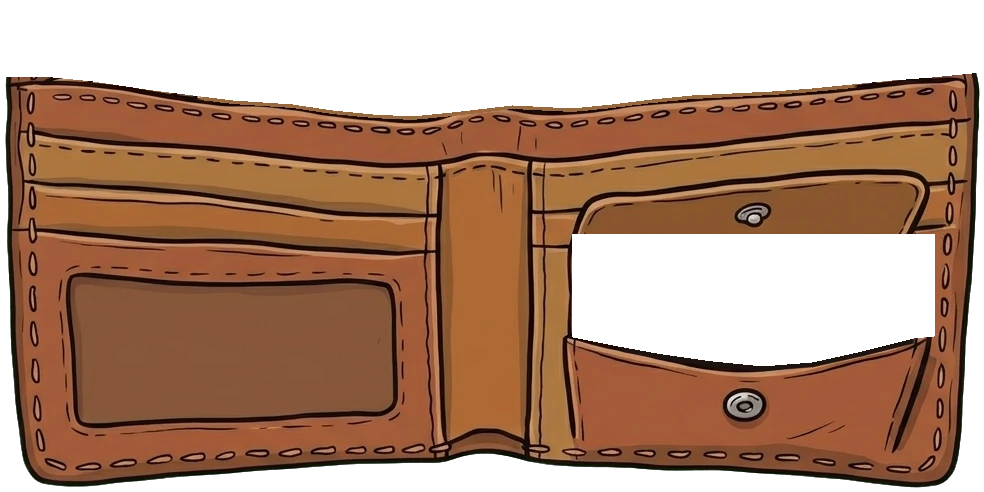
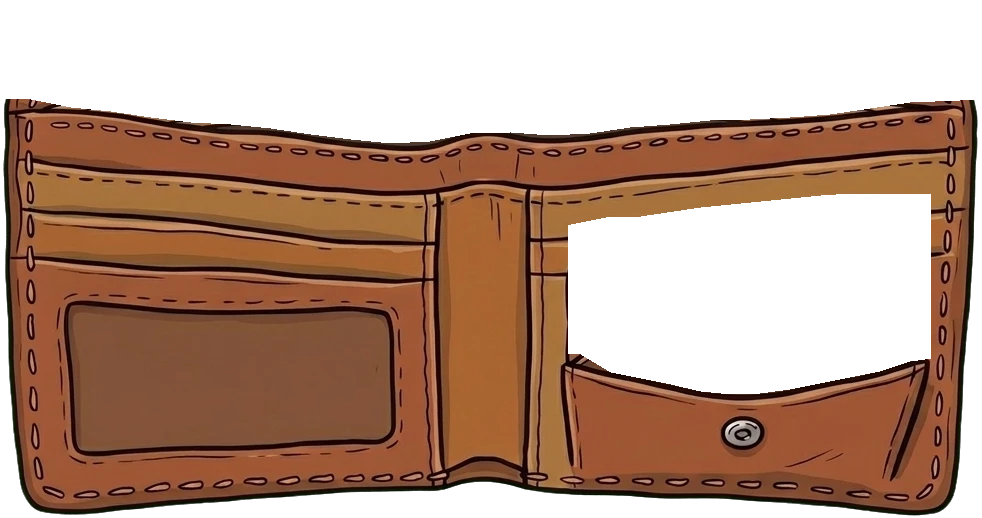
Étal : portefeuille vide du parent, pièces devant le rabat ; fiche du lot « L'étal du pêcheur »
- Le portefeuille ouvert est l'illustration du parent sans billet ni pièce
  (plus de cuir reconstitué) ; les pièces qui sortent montent devant le rabat.
- docs/LOTS.md, fiche 7 : le lot qui intègre l'étal comme module 6
  (déroulement, 10 niveaux, crans, erreurs M1 à M7, leçons L15 à L18, orage,
  voix à fabriquer plus tard, recette).

Claude-Session: https://claude.ai/code/session_01NNpj2QYWwySQuqJk6WwPyV

diff --git a/art/etal/index.html b/art/etal/index.html
@@ -720,15 +720,15 @@ const IMG_V = { 10: 'piece-10c', 20: 'piece-20c', 50: 'piece-50c', 100: 'piece-1
 // tailles réelles : billets 120 à 140 mm de large ; pièces 19,75 à 25,75 mm de diamètre (rapports respectés)
 const LARG = { 500: 190, 1000: 201, 2000: 211, 5000: 222, 10: 67, 20: 76, 50: 82, 100: 79, 200: 88 };
 const PF_FERME = { l: 964, t: 586, s: 0.42 }, PF_OUVERT = { l: 659, t: 458, s: 0.915 };
-/* le portefeuille ouvert : l'illustration du parent (outils/8-portefeuille-ouvert.py), en deux calques — le fond
-   (portefeuille vidé) et le cuir de devant ; billets et pièces rangés passent entre les deux. Coordonnées en pixels
-   de l'illustration (1 200 × 896), cadre découpé à partir de (108, 212). */
-const PF_IMG = { x0: 108, y0: 212, w: 984, h: 492 };
-const PF_NEUF = { l: 657, t: 462, s: 0.598 };
+/* le portefeuille ouvert : l'illustration du parent du portefeuille vide (outils/8-portefeuille-ouvert.py), en deux
+   calques — le portefeuille, et le cuir de devant ; billets et pièces rangés passent entre les deux. Coordonnées en
+   pixels de l'illustration (1 200 × 896), cadre découpé à partir de (110, 184). */
+const PF_IMG = { x0: 110, y0: 184, w: 982, h: 518 };
+const PF_NEUF = { l: 657, t: 460, s: 0.598 };
 const enScene = (x, y) => [PF_NEUF.l + PF_NEUF.s * (x - PF_IMG.x0), PF_NEUF.t + PF_NEUF.s * (y - PF_IMG.y0)];
 const BORD_AVANT = [[110, 290], [200, 294], [300, 308], [400, 317], [480, 327], [520, 329], [620, 318], [720, 317], [800, 308], [880, 304], [960, 297], [1040, 290], [1090, 285]];
 const interp = (P, x) => { for (let i = 1; i < P.length; i++) if (x <= P[i][0]) { const [a, b] = [P[i - 1], P[i]]; return a[1] + (b[1] - a[1]) * (x - a[0]) / (b[0] - a[0]); } return P[P.length - 1][1]; };
-const BORD_POCHE_P = [[676, 548], [720, 557], [770, 566], [820, 573], [870, 578], [920, 574], [970, 563], [1022, 550]];
+const BORD_POCHE_P = [[676, 538], [690, 538], [720, 556], [750, 562], [780, 568], [810, 575], [840, 578], [870, 577], [900, 573], [930, 567], [960, 561], [990, 555], [1020, 545], [1042, 542]];
 const SOUC = { x: 468, y: 690, rx: 185, ry: 95 };
 let pfEtat = 'ferme', items = [], ordreS = 0;    // ferme · anim · ouvert (argent rangé) · sorti (argent dehors)
 const pfEl = $('pf'), pfCtx = pfEl.getContext('2d'), fondEl = $('pfFond'), avEl = $('pfAvant');
@@ -764,7 +764,7 @@ const tries = (lieu, b) => items.filter(i => i.lieu === lieu && i.b === b).sort(
 function posRangee(it, k, n) {
   if (it.b) {                            // dans la grande poche : le haut dépasse, comme dans l'illustration
     const sc = 1, xi = 645 + (k - (n - 1) / 2) * Math.min(90, 250 / Math.max(1, n - 1 || 1)) + (it.h - 0.5) * 16;   // centres entre 520 et 770 : les billets restent dans la poche
-    const haut = 150 + (k % 3) * 22 + it.h * 18;                       // haut du billet (pixels de l'illustration)
+    const haut = 108 + (k % 3) * 20 + it.h * 16;                       // haut du billet (pixels de l'illustration) ; le bas reste caché, au-dessus du rabat de la poche à pièces
     const [x, y] = enScene(xi, haut); return [x, y + hauteur(it) * sc / 2, -5 + (k % 3) * 4 + (it.h - 0.5) * 4, sc];
   }
   const rang = k % 2, i = Math.floor(k / 2), m = Math.ceil((n - rang) / 2), sc = 0.9;   // deux rangs : derrière plus haut, devant plus bas
@@ -804,15 +804,15 @@ function majTotal() {
 }
 // au-dessus de sa poche, encore entre le fond et le devant du cuir : l'étape du milieu pour sortir ou rentrer
 function audessus(it) {
-  if (it.b) { const [, y] = enScene(470, 150); return [it.x, y - hauteur(it) * 0.15]; }
-  const [, y] = enScene(860, 455); return [it.x, y - LARG[it.v] * 0.35];
+  if (it.b) { const [, y] = enScene(645, 108); return [it.x, y - hauteur(it) * 0.15]; }
+  const [, y] = enScene(860, 470); return [it.x, y - LARG[it.v] * 0.2];   // au-dessus de la poche, devant son rabat
 }
 function sortirTout() {                  // un toucher : billets et pièces sortent ensemble (billets en haut, pièces en bas)
   pfEtat = 'sorti';
   const A = items.filter(i => i.lieu === 'poche');
   A.forEach((it, k) => {
     it.transit = true; it.lieu = 'sortie';
-    const [x, y] = audessus(it); poser(it, x, y, it.r, it.b ? 1 : 0.8, 4);
+    const [x, y] = audessus(it); poser(it, x, y, it.r, it.b ? 1 : 0.8, it.b ? 4 : 30);   // les pièces montent devant le rabat (et le cuir au-dessus)
     setTimeout(() => { it.transit = false; disposer(); }, 210 + (it.b ? 0 : 25 * k));
   });
   disposer();

diff --git a/art/etal/outils/8-portefeuille-ouvert.py b/art/etal/outils/8-portefeuille-ouvert.py
@@ -1,101 +1,30 @@
-# 8. Le portefeuille ouvert, d'après l'illustration du parent (meilleure que l'image de la vidéo) :
-#    - « fond » : le portefeuille vidé de son argent. Les billets peints sont retirés ; la bande de cuir qu'ils
-#      cachaient (le dos de la grande poche) est refaite en recopiant la bande visible à gauche, étirée entre le bord
-#      haut du dos et le bord avant de la poche ; l'intérieur de la poche à pièces est repeint.
-#    - « avant » : le cuir qui passe devant l'argent rangé (sous le bord avant de la grande poche, hors de la fenêtre
-#      de la poche à pièces). L'application glisse billets et pièces entre les deux.
-#    Les contours (en pixels de l'illustration) sont recopiés dans index.html (PF_NEUF).
+# 8. Le portefeuille ouvert et vide (illustration du parent, sans billet ni pièce), en deux calques :
+#    - « fond » : le portefeuille entier, fond vert retiré ;
+#    - « avant » : le cuir qui passe devant l'argent rangé : tout ce qui est sous le bord avant de la grande poche,
+#      sauf l'ouverture de la poche à pièces (de son rabat jusqu'à son bord avant : les pièces passent devant le rabat,
+#      derrière le bord avant de la poche).
+#    Les contours (pixels de l'illustration, relevés sur les traits d'encre) sont recopiés dans index.html.
 import cv2, numpy as np, json
 from commun import src, img
 
-im = cv2.imread(src('monnaie/portefeuille-ouvert.jpg')); H, W = im.shape[:2]
+im = cv2.imread(src('monnaie/portefeuille-vide.jpg')); H, W = im.shape[:2]
 f = im.astype(np.float32); vert = f[..., 1] - np.maximum(f[..., 0], f[..., 2])
 alpha = 1 - np.clip((vert - 25) / 50, 0, 1)
 m = np.maximum(f[..., 0], f[..., 2]); f[..., 1] = np.where(alpha < 1, np.minimum(f[..., 1], m + 10), f[..., 1])
-
-def ligne(pts):
-    P = np.array(pts, float); return lambda x: np.interp(x, P[:, 0], P[:, 1])
-BORD_AVANT = [[110, 290], [160, 290], [200, 294], [220, 297], [260, 303], [300, 308], [340, 313], [400, 317], [440, 323],
-              [480, 327], [520, 329], [560, 325], [620, 318], [680, 321], [720, 317], [760, 312], [800, 308], [840, 306],
-              [880, 304], [920, 301], [960, 297], [1000, 293], [1040, 290], [1090, 285]]
-avant = ligne(BORD_AVANT)
-FEN = [[684, 472], [760, 468], [850, 463], [950, 458], [1030, 456], [1012, 495], [1003, 522], [1042, 552], [1000, 559], [960, 566],
-       [920, 573], [880, 577], [840, 578], [800, 574], [760, 567], [720, 560], [680, 553], [722, 522], [705, 497]]
-FEN_HAUT = [[680, 472], [850, 463], [1042, 456]]
-FEN_BAS = [[676, 548], [720, 557], [770, 566], [820, 573], [870, 578], [920, 574], [970, 563], [1022, 550], [1042, 548]]
-fh, fb = ligne(FEN_HAUT), ligne(FEN_BAS)
-
-fond = np.dstack([f, alpha * 255])
-L = cv2.cvtColor(im, cv2.COLOR_BGR2GRAY).astype(np.float32)
-# 1. le profil vertical de la bande de dos, pris à gauche (x 165 à 300), aligné sur son bord haut, sans les points de couture
-topa = lambda x: int(np.argmax(alpha[:, x] > 0.5))
-PROF = 75
-pile = np.stack([f[topa(x):topa(x) + PROF, x] for x in range(165, 301)], 1)          # (PROF, n, 3)
-lum = pile.mean(-1)
-prof = np.zeros((PROF, 3), np.float32)
-for r in range(PROF):
-    sombre = lum[r] < 75
-    ok = ~sombre & (lum[r] < 185)
-    prof[r] = np.median(pile[r][sombre], 0) if sombre.mean() > 0.55 or ok.sum() < 5 else np.median(pile[r][ok], 0)
-# fin de la bande de dos (le trait sombre sous les coutures) : premier rang sombre après 25 px
-fin_dos = 25 + int(np.argmax(prof[25:].mean(-1) < 90)); fin_dos += 4
-# 2. retirer les billets et refaire le dos entre X0 et X1 ; son bord haut raccorde les deux bouts visibles, en léger creux
-X0, X1 = 305, 966
-hA, hB = topa(X0 - 3), topa(X1 + 3)
-haut = lambda x: hA + (hB - hA) * np.clip((x - X0) / (X1 - X0), 0, 1) - 6 * np.sin(np.pi * np.clip((x - X0) / (X1 - X0), 0, 1))
-for x in range(X0, X1):
-    t0 = int(round(haut(x))); fe = int(round(avant(x))) + 3
-    fond[:t0 - 1, x, 3] = 0
-    col = np.zeros((fe - t0, 3), np.float32)
-    col[:fin_dos] = prof[:fin_dos]
-    reste = fe - t0 - fin_dos                                                       # la doublure intérieure, étirée
-    src_r = prof[fin_dos:min(PROF, 70)]
-    idx = np.linspace(0, len(src_r) - 1, max(1, reste)); col[fin_dos:] = np.stack([np.interp(idx, np.arange(len(src_r)), src_r[:, c]) for c in range(3)], -1)[:reste]
-    col[fin_dos:] *= np.linspace(0.78, 0.92, reste)[:, None]                     # plus sombre : le fond de la poche
-    t = min(1, (x - X0 + 1) / 6, (X1 - x) / 6)
-    fond[t0:fe, x, :3] = fond[t0:fe, x, :3] * (1 - t) + col * t
-    fond[t0:fe, x, 3] = 255
-    fond[t0 - 1:t0 + 4, x, :3] = (18, 22, 30); fond[t0 - 1, x, 3] = 150           # le trait d'encre du bord
-# coutures sur la bande refaite : tirets clairs cernés d'encre, le long du bord, tous les 42 px
-encre = (12, 18, 26); clair = tuple(float(v) for v in pile.reshape(-1, 3)[np.argsort(lum.ravel())[int(lum.size * 0.97)]])   # le clair des coutures
-calque = fond[..., :3].copy()
-for xc in np.arange(X0 + 14, X1 - 14, 42):
-    yc = haut(xc) + 19; pente = np.degrees(np.arctan2(haut(xc + 5) - haut(xc - 5), 10)) - 8
-    cv2.ellipse(calque, (int(xc), int(yc)), (13, 4), pente, 0, 360, encre, -1, cv2.LINE_AA)
-    cv2.ellipse(calque, (int(xc), int(yc)), (10, 2), pente, 0, 360, clair, -1, cv2.LINE_AA)
-zone = np.zeros(alpha.shape, bool); zone[:, X0 + 4:X1 - 4] = True
-fond[..., :3] = np.where(zone[..., None], calque, fond[..., :3])
-# 3. la poche à pièces : les quatre pièces peintes (cercles relevés à l'œil) sont retirées, et ce qu'elles cachaient
-#    est redessiné : rabat, fond de la poche, soufflets, traits d'encre.
+ligne = lambda P: (lambda x: np.interp(x, [p[0] for p in P], [p[1] for p in P]))
+BORD_AVANT = [[110, 284], [140, 284], [180, 292], [220, 296], [260, 302], [300, 307], [340, 309], [380, 313], [420, 319], [460, 324],
+              [500, 328], [540, 326], [580, 318], [620, 317], [660, 320], [700, 318], [740, 312], [780, 309], [820, 305], [860, 304],
+              [900, 302], [940, 299], [980, 293], [1020, 287], [1095, 284]]
+RABAT_HAUT = [[680, 412], [720, 404], [750, 404], [810, 395], [870, 389], [930, 383], [960, 381], [1042, 381]]
+BORD_POCHE = [[676, 538], [690, 538], [720, 556], [750, 562], [780, 568], [810, 575], [840, 578], [870, 577], [900, 573],
+              [930, 567], [960, 561], [990, 555], [1020, 545], [1042, 542]]
+avant, rh, bp = ligne(BORD_AVANT), ligne(RABAT_HAUT), ligne(BORD_POCHE)
 yy, xx = np.mgrid[0:H, 0:W]
-PIECES = [(798, 540, 67), (907, 505, 55), (867, 566, 55), (968, 545, 49)]
-masque = np.zeros((H, W), np.uint8)
-for (cx, cy, r) in PIECES: cv2.circle(masque, (cx, cy), r + 6, 255, -1)
-mq = masque > 0
-# la poche vide, redessinée en aplats cernés d'encre (couleurs relevées dans l'illustration), posée seulement sous les pièces retirées
-P = fond[..., :3].clip(0, 255).astype(np.uint8).copy()
-ENCRE, RABAT, FOND_P, SOUFFLET = (16, 20, 28), (46, 86, 138), (40, 63, 106), (54, 92, 160)
-rabat_pts = [(676, 471), (720, 469), (780, 466), (850, 463), (920, 460), (980, 456), (1022, 453)]
-rim_pts = [(676, 549), (720, 558), (770, 567), (820, 574), (870, 579), (920, 575), (970, 564), (1022, 551)]
-cv2.rectangle(P, (676, 400), (1022, 475), RABAT, -1)                                   # le rabat (derrière)
-cv2.fillPoly(P, [np.array(rabat_pts + rim_pts[::-1], np.int32)], FOND_P)               # le fond de la poche
-g = np.array([(676, 471), (738, 507), (676, 546)], np.int32)                           # soufflet gauche
-d = np.array([(1022, 453), (968, 500), (1022, 547)], np.int32)                         # soufflet droit
-cv2.fillPoly(P, [g, d], SOUFFLET)
-cv2.polylines(P, [g, d], True, ENCRE, 5, cv2.LINE_AA)
-cv2.polylines(P, [np.array(rabat_pts, np.int32)], False, ENCRE, 6, cv2.LINE_AA)
-cv2.polylines(P, [np.array(rim_pts, np.int32)], False, ENCRE, 6, cv2.LINE_AA)
-lisse = cv2.GaussianBlur(mq.astype(np.float32), (7, 7), 0)[..., None]
-fond[..., :3] = fond[..., :3] * (1 - lisse) + P.astype(np.float32) * lisse
-# l'ouverture de la poche : au-dessus de son bord avant, l'argent passe devant le cuir
-fen = (xx >= 680) & (xx <= 1042) & (yy < fb(xx)) & (yy > 445)
-# 4. le cuir de devant
-devant = (yy >= avant(xx) - 1) & ~fen
+ouverture = (xx >= 678) & (xx <= 1040) & (yy > rh(xx) - 4) & (yy < bp(xx))
+devant = (yy >= avant(xx) - 1) & ~ouverture
+fond = np.dstack([f, alpha * 255]).clip(0, 255).astype(np.uint8)
 av = fond.copy(); av[..., 3] = np.where(devant, fond[..., 3], 0)
-av[..., 3] = cv2.GaussianBlur(av[..., 3], (3, 3), 0) * devant + av[..., 3] * 0   # bord net du masque, sans halo
-av[..., 3] = np.where(devant, fond[..., 3], 0)
-
-x0, y0, x1, y1 = 108, 212, 1092, 704          # cadre fixe (PF_IMG dans index.html)
-cv2.imwrite(img('pf-ouvert-fond.webp'), fond[y0:y1, x0:x1].clip(0, 255).astype(np.uint8), [cv2.IMWRITE_WEBP_QUALITY, 90])
-cv2.imwrite(img('pf-ouvert-avant.webp'), av[y0:y1, x0:x1].clip(0, 255).astype(np.uint8), [cv2.IMWRITE_WEBP_QUALITY, 90])
-print(json.dumps({'cadre': [int(x0), int(y0), int(x1 - x0), int(y1 - y0)]}))
+x0, y0, x1, y1 = 110, 184, 1092, 702                     # cadre fixe (PF_IMG dans index.html)
+cv2.imwrite(img('pf-ouvert-fond.webp'), fond[y0:y1, x0:x1], [cv2.IMWRITE_WEBP_QUALITY, 90])
+cv2.imwrite(img('pf-ouvert-avant.webp'), av[y0:y1, x0:x1], [cv2.IMWRITE_WEBP_QUALITY, 90])
+print(json.dumps({'cadre': [x0, y0, x1 - x0, y1 - y0]}))

diff --git a/docs/LOTS.md b/docs/LOTS.md
@@ -37,6 +37,8 @@ Les lots portent un nom, pas un numéro : les numéros 1 à 3 ter désignent dé
 
 **Entre « Les voiliers » et « Les leçons » : le lot « Correctifs »** (décision du parent du 6 octobre 2026, fiche 2 bis). La confrontation de la spécification avec le code est faite (`docs/ECARTS-SPEC.md`, #37) et ses écarts sont tranchés ; ce lot les applique. Il ne peut pas tourner en même temps qu'un autre lot (il modifie `docs/SPEC.md`). Il n'est pas dans le tableau ci-dessus : son état est tenu ici. **État : fait** (PR #39, à fusionner ; 8 phrases nouvelles, à fabriquer avec celles des lots « Mascotte » et « Les voiliers »).
 
+**Ensuite : le lot « L'étal du pêcheur »** (la monnaie, avancée par le parent le 8 octobre 2026 ; maquette validée le 10 octobre, `art/etal/`, PR #47 ; fiche 7). **État : à faire**, après la fusion de la PR #47 et du lot « Correctifs de la tablette ».
+
 **Après les cinq lots : le lot « Correctifs de la tablette »** (premier essai du parent sur la tablette, 8 octobre 2026 ; fiche 6). **État : fait** (PR #46, à fusionner ; 282 phrases nouvelles, environ 2,2 Mo, à fabriquer).
 
 **Pourquoi cet ordre.**
@@ -403,3 +405,99 @@ Le parent les fabrique ensuite avec `node tools\voix\publier.mjs`. Rester sous 8
 - l'écran de démarrage capturé ;
 - le clavier essayé dans chaque exercice à pavé ;
 - le contrôle des phrases sans fichier sur tous les parcours.
+
+### 7. Lot « L'étal du pêcheur » (la monnaie)
+
+**But** : la maquette `art/etal/` (décor, pêche du jour, orage, portefeuille, soucoupe ; validée par le parent le 10 octobre 2026) devient le **module 6** de l'application : un exercice de monnaie à l'étal du pêcheur, avec ses niveaux, ses crans, ses corrections, ses leçons, son enregistrement et son espace parent. Avancé à la demande du parent (8 octobre 2026) : la monnaie est une notion de la vie courante qu'il veut faire acquérir. Concept et décisions : `docs/IDEES.md`, section 2, « L'étal du pêcheur » ; ce qui en reste dans `docs/SPEC.md`, section 13, « L'heure et la monnaie », est remplacé par une section **7 quater** (le module 6). Lire `art/etal/README.md`, `art/etal/PHRASES.md`, `art/mascotte/README.md`, et la fiche du lot « Les voiliers » (même méthode d'intégration).
+
+**Comme le bloc 4 et 5 : d'un seul tenant, sans arrêt pour une validation** (la maquette visuelle est validée ; les règles ci-dessous sont celles du parent ou proposées par la conception). Si une règle pose problème en simulation, la session tranche elle-même ; chaque choix va dans `docs/JOURNAL-CONCEPTION.md`, marqué « choix de la session, à revoir par le parent », et dans une section « Choix faits sans le parent » en tête de la demande de fusion.
+
+**Prérequis** : la demande de fusion de la maquette (#47) et le lot « Correctifs de la tablette » sont fusionnés sur `main`.
+
+**Méthode d'intégration** (celle des voiliers et du récif vivant) :
+
+- un outil de l'atelier, `art/tools/export-etal.mjs`, reprend les images de `art/etal/img/` dans `app/assets/etal/` et fabrique le module de la scène à partir du script de la maquette ; la maquette n'est jamais modifiée ; les retouches (raccords avec l'application) sont faites et contrôlées par l'export ;
+- **gardé tel quel** : le décor et ses animations (ciel, mer en trois bandes, oiseaux, bateaux et leurs versions réduites, phare, pluie, lampe, lumière cuite dans l'étal), la pêche du jour et ses ardoises de prix écrites par le code, le portefeuille (vidéo d'ouverture, portefeuille ouvert en deux calques, argent rangé entre les deux, sortie et rangement en un toucher, fermeture d'un toucher à côté), la soucoupe, le glisser et le toucher de l'argent ;
+- **retiré** : les boutons de la maquette, le panneau de réglages et le compteur. Les valeurs des réglages deviennent des constantes de `app/content/etal.json` : celles que le parent donne dans son prompt (« Copier les réglages » de la maquette), sinon les valeurs de départ de la maquette ;
+- **la mascotte** : celle de l'application, à sa place (la fenêtre de la cabane tombe sur sa place, `art/etal/README.md`), abaissée et rognée au rebord de la fenêtre comme dans la maquette ; sa bulle, sa flèche, ses réactions comme partout ; le voile de l'orage sur elle ;
+- **les boutons de l'application** (maison, pause, « passer », « je ne sais pas », la coche) à leur place habituelle, sauf s'ils tombent sur le portefeuille, la soucoupe ou les produits : alors les placer sur le comptoir ou le décor, captures à l'appui, et le dire. La coche de validation (« J'ai payé ») est grande et près de la soucoupe.
+- **Fluidité** : 60 images/s mesurées par le parent sur la tablette avec la maquette (beau et mauvais temps). Mesurer avec `tests/e2e/perf.mjs` avant et après ; garder l'allègement automatique de la pluie ; si l'intégration coûte plus que la maquette, le dire.
+
+**Le déroulement d'une question** (« acheter ») :
+
+1. Un produit de l'étal s'allume (léger soulèvement, halo, son ardoise de prix aussi). Le pêcheur : « Achète les sardines. » puis « Elles coûtent 3 euros. » (deux phrases enchaînées, voir « Voix »). Le prix est écrit sur l'ardoise : la voix le redit, l'ardoise le montre.
+2. L'enfant ouvre le portefeuille, sort l'argent, dépose billets et pièces dans la soucoupe (toucher ou glisser) ; elle peut en reprendre (toucher dans la soucoupe).
+3. Elle touche la coche. Le pêcheur compte ce qu'il y a dans la soucoupe, à voix haute, objet par objet, du plus gros au plus petit (« 2… 3 euros »), avec un halo sur l'objet compté (en « plus facile », ce compte est montré et dit à chaque objet posé).
+4. Juste : il prend l'argent (qui glisse vers sa fenêtre), emballe le produit (le produit glisse hors de l'étal, un nouveau prend sa place à la question suivante), réaction de la mascotte. S'il doit rendre la monnaie (niveaux de rendu), il pose la monnaie dans la soucoupe en comptant à partir du prix (« 13… 14, 15… 20 ») : l'argent rendu revient ensuite dans le portefeuille de l'enfant.
+5. Faux : correction (voir plus bas), puis la question revient plus loin, comme partout (section 9).
+
+**Les niveaux** (dans `app/content/module6.json` ; les prix et le contenu du portefeuille sont tirés par le code à chaque question, jamais écrits dans les images) :
+
+| Niveau | Contenu | Portefeuille | Prix | Exemple |
+| --- | --- | --- | --- | --- |
+| 1 | Pièces et billets : poser la pièce ou le billet demandé | 1 € à 50 €, un de chaque | — | « Pose un billet de 10 euros. » |
+| 2 | Payer juste avec des pièces | pièces de 1 € et 2 € | 2 à 10 € | 7 € = 2 + 2 + 2 + 1 |
+| 3 | Payer juste avec billets et pièces | billets de 5 et 10 €, pièces de 1 et 2 € | 6 à 20 € | 17 € = 10 + 5 + 2 |
+| 4 | Payer juste jusqu'à 50 € | billets de 5 à 50 €, pièces de 1 et 2 € | 11 à 50 € | 34 € = 20 + 10 + 2 + 2 |
+| 5 | Payer juste avec un portefeuille restreint : le compte juste existe, mais il faut le trouver | tiré pour qu'il n'y ait qu'une ou deux façons (par exemple sans pièce de 1 €) | 3 à 30 € | 7 € sans pièce de 1 € : 5 + 2 |
+| 6 | Le compte juste est impossible : payer sans pièce de trop ; le pêcheur rend la monnaie et compte | tiré pour que le compte juste soit impossible | 3 à 20 € | 13 € avec un billet de 20 € et des pièces de 2 € : donner 20 € |
+| 7 | Rendre la monnaie : le paiement est montré (le billet est déjà dans la soucoupe) ; « Combien je te rends ? » au pavé | — | 1 à 19 €, billet de 5, 10 ou 20 € | 13 € payés avec 20 € → 7 |
+| 8 | Deux produits : « Achète les sardines et le maquereau. » ; payer juste le total | billets de 5 à 20 €, pièces | total 5 à 30 € | 3 + 4 = 7 € |
+| 9 | Les centimes : prix ronds ou en 50 c, écriture à virgule sur l'ardoise | ajoute les pièces de 50 c | 1,50 à 10 € | 3,50 € = 2 + 1 + 50 c |
+| 10 | Les centimes : prix en 10 c, 20 c, 50 c | ajoute les pièces de 10 et 20 c | 0,30 à 10 € | 2,70 € = 2 + 50 c + 20 c |
+
+- **Ordre et montée** : règles communes (section 9). Le niveau 1 est court (une poignée de questions, voie rapide). Les centimes (9 et 10) sont attendus par le programme au plus tard en période 2 ; ils restent accessibles par « choisir » dès le départ.
+- **Le contenu du portefeuille** est tiré à chaque question selon le niveau ; ce qui a été dépensé ne manque pas à la question suivante (le portefeuille est regarni à chaque question). Contrôle automatique : au niveau 5, le compte juste existe toujours ; au niveau 6, il n'existe jamais, et un paiement sans pièce de trop existe toujours.
+- **La règle de validation** : quand le compte juste est possible (niveaux 2 à 5, 8 à 10), il est exigé. Quand il est impossible (niveau 6), le paiement est juste s'il suffit et si on ne peut retirer aucun objet sans qu'il ne suffise plus (« aucune pièce de trop »).
+- **La réponse qui varie** (section 9) : prix, produits et contenus tirés sans remise ; contrôlé par `b-sequences.mjs`, étendu au module 6 (la « réponse » est le prix).
+
+**Les crans** (section 4 ; avec « jouer » comme avec « choisir », le cran ne change pas le niveau, comme aux voiliers) :
+
+- **plus facile** : le total de la soucoupe est affiché et dit à chaque objet posé ; la valeur s'écrit sur chaque pièce et billet sortis ; au niveau 7, la ligne de l'aide est montrée d'emblée ;
+- **conseillé** : le total est montré au moment du compte (après la coche) ;
+- **plus dur** : pas de total ; prix dans le haut de la fourchette du niveau ;
+- **très dur** : pas de total, prix en haut de fourchette, et un portefeuille plus garni de petites pièces (le chemin le plus long n'est pas le bon).
+
+**Erreurs, corrections, aides** :
+
+- **M1 « pas assez »** : le pêcheur compte, puis « Il manque 2 euros. » ; l'argent reste dans la soucoupe, l'enfant peut compléter **une fois** (deuxième essai, comme aux voiliers), sinon correction ;
+- **M2 « trop » quand le compte juste existe** : « Tu peux faire le compte juste. » ; il rend ce qui est en trop, deuxième essai ;
+- **M3 « une pièce de trop »** (niveau 6) : il rend la pièce inutile (« Celle-là, garde-la ! ») ;
+- **M4 « le nombre au lieu de la valeur »** : la soucoupe contient autant d'objets que le prix en euros (heuristique) : correction qui compte les valeurs ;
+- **M5 « rend le prix au lieu de la différence »** et **M6 « erreur de rendu »** (niveau 7) ;
+- **M7 « mauvaise pièce ou mauvais billet »** (niveau 1) ;
+- **NSP** comme partout.
+- **La correction** montre une bonne façon de payer : l'argent de l'enfant revient au portefeuille, puis les objets d'une solution glissent un par un dans la soucoupe pendant que le pêcheur compte. Au niveau 7 : le saut sur une ligne graduée, du prix à la somme donnée (les primitives de la ligne de l'application), « 13… 20, ça fait 7 ».
+- **L'aide (coquillage)** : le total affiché et dit à chaque objet posé, plus la valeur sur chaque objet ; au niveau 7, la ligne.
+
+**Les leçons** (section 8 ; menu des leçons : une rangée « monnaie ») :
+
+- **L15 « Pièces et billets »** : une pièce de 2 € vaut deux pièces de 1 € ; un billet de 5 € vaut cinq pièces de 1 € ; on compte la valeur, pas le nombre (trois pièces de 2 € : 2, 4, 6) ;
+- **L16 « Payer juste »** : du plus gros au plus petit (17 € : 10, 15, 16, 17) ;
+- **L17 « Rendre la monnaie »** : on compte à partir du prix jusqu'à ce qu'on a donné (13… 20 : 7 euros) ;
+- **L18 « Les centimes »** : 100 centimes font 1 euro ; 3,50 € c'est 3 euros et 50 centimes ; deux pièces de 50 c font 1 € ; « deux euros cinq » et « deux euros cinquante » ne sont pas la même chose.
+
+Chacune suivie de « À toi ! » vers son niveau (section 3). Relancées selon les règles communes (difficulté persistante, même erreur deux fois).
+
+**L'orage** (décision du parent du 10 octobre 2026) : à l'entrée de l'exercice, mauvais temps une fois sur deux (`etal.json`) ; sinon, une fois sur deux, il arrive en cours de partie (entre 2 et 6 min, tiré au hasard) : la mascotte dit une des quatre répliques de `art/etal/PHRASES.md` (jamais deux fois de suite la même), à un moment où elle ne parle pas d'une question (entre deux questions). Le temps ne change rien à l'exercice. Par mauvais temps, la lampe s'allume et éclaire l'étal, les produits, le portefeuille et la soucoupe comme dans la maquette.
+
+**Récompenses** : les règles de la section 10 (étoiles selon le cran, erreur corrigée, niveau franchi). La monnaie de l'exercice n'est **jamais** celle des étoiles.
+
+**Accès** : une tuile de l'écran « choisir » (un portefeuille ou une pièce, dessinés dans l'atelier, style A), ses 10 niveaux (légende du parent), l'entraînement libre ; pictogramme de frise. **Hors de la rotation de « jouer »**, comme les voiliers (`seance.json`, `alternance.horsRotation`) ; le parent peut l'imposer pour la prochaine séance « jouer ». Question ouverte pour le parent (valeur par défaut : hors rotation).
+
+**Espace parent** : réponses, codes M1 à M7 et NSP, progression, légende des 10 niveaux, notes de la séance (prix, contenu de la soucoupe, rendu).
+
+**Voix** — **aucune voix n'est fabriquée dans ce lot** (`CLAUDE.md`, « Voix ») ; le parent les fabrique plus tard, sur son ordinateur, avec Chatterbox (`docs/VOIX.md`). La session :
+
+- écrit les phrases dans `app/content/textes.json` (et les leçons) et les fait entrer dans l'inventaire (`tools/voix/inventaire.mjs`) ;
+- limite leur nombre par des phrases enchaînées : le produit (« Achète les sardines. », 12 phrases, avec le bon article et l'accord : « Elles coûtent » / « Il coûte ») puis le prix (« 3 euros. », « 3 euros 50. », « 2 euros 70. »…, autant que de prix possibles), les montants comptés (« 2… », « 3 euros. »), les manques et les rendus ; viser moins de 600 phrases nouvelles ; les prix tirés seulement parmi ceux qui ont une phrase ;
+- reprend les quatre répliques de l'orage de `art/etal/PHRASES.md` ;
+- donne dans la demande de fusion la liste exacte des phrases nouvelles, leur nombre et leur poids estimé.
+
+**Recette, en plus de la méthode commune** :
+
+- tests unitaires des règles : tirage des portefeuilles (existence ou absence du compte juste), validation « aucune pièce de trop », rendu, tirage des prix parmi ceux qui ont une phrase ;
+- simulation par profil (`tests/sim-seances.mjs`, étendu au module 6) et séquences lues ;
+- un parcours `tests/e2e/etal.mjs` avec les captures (1280 × 800 et 1920 × 1200) de chaque situation : beau temps, mauvais temps, arrivée de l'orage et réplique, portefeuille fermé, ouvert, argent sorti, paiement juste, « pas assez », « trop », pièce de trop, rendu de monnaie par le pêcheur, niveau 7 au pavé, deux produits, centimes, « je ne sais pas », correction, exemple guidé, pause et reprise, chaque leçon ;
+- mesure du temps d'image, beau et mauvais temps, portefeuille ouvert ;
+- relecture indépendante (méthode commune).

diff --git a/art/etal/README.md b/art/etal/README.md
@@ -1,6 +1,6 @@
 # Maquette — l'étal du pêcheur (le décor de la monnaie)
 
-**Maquette du décor, à valider par le parent** (9 octobre 2026). Elle contient la scène, ses animations, la pêche du jour sur l'étal, l'arrivée de l'orage et le portefeuille (pièces, billets, soucoupe) ; pas encore la consigne ni la validation d'un achat. Aucun fichier sous `app/` n'est modifié.
+**Maquette validée par le parent le 10 octobre 2026** ; à intégrer par le lot « L'étal du pêcheur » (`docs/LOTS.md`, fiche 7). Elle contient la scène, ses animations, la pêche du jour sur l'étal, l'arrivée de l'orage et le portefeuille (pièces, billets, soucoupe) ; pas encore la consigne ni la validation d'un achat. Aucun fichier sous `app/` n'est modifié.
 
 **Tester** : depuis la racine du dépôt, `python -m http.server 8080`, puis `http://localhost:8080/art/etal/`. Le capitaine vient de `art/mascotte/` (mêmes vidéos, même moteur). Le compteur en haut à droite donne les images par seconde.
 
@@ -14,14 +14,14 @@
 | Bateaux | Six modèles détourés, trois au plus en même temps, un nouveau toutes les 5 à 13 s, dans les deux sens (l'image est retournée au besoin). Ils naissent derrière la cabane ou au bord droit. Leur hauteur dans la mer fixe leur taille et leur vitesse (perspective). Ils tanguent et roulent un peu, davantage par mauvais temps. Écume le long de la coque, vague d'étrave, sillage de petits traits blancs qui s'allongent et s'effacent. |
 | Mauvais temps | Bouton en haut. Passage en 3 s : ciel, mer, jetée et étal de l'illustration du mauvais temps ; pluie (gouttes proches et lointaines, poussées par le vent) et éclaboussures sur la glace ; bords assombris ; faisceau du phare qui tourne (longueur qui suit la rotation, éclat quand il passe face à nous) ; fenêtres et feux de mât des bateaux allumés, avec leur reflet tremblant ; capitaine assombri. |
 | Temps du jour | Tiré au hasard à l'ouverture : mauvais une fois sur deux (décision du parent du 9 octobre 2026). Sinon, une fois sur deux, l'orage arrive en cours de séance, entre 2 et 6 minutes (décision du 10 octobre ; réglable) : le pêcheur s'exclame et se met à l'abri (bulle seule dans la maquette ; aucune voix fabriquée ici : phrases à fabriquer plus tard par le parent, `PHRASES.md`). Le bouton « Mauvais temps » fait arriver l'orage de la même façon. |
-| Portefeuille | Fermé sur le comptoir. Un toucher l'ouvre : les images de la vidéo du parent, à l'envers, pendant qu'il vient au centre du comptoir, puis un fondu vers l'illustration du portefeuille ouvert du parent (meilleure), en deux calques : le portefeuille vidé et le cuir de devant (`outils/8-portefeuille-ouvert.py`). Les billets sont rangés dans la grande poche, le haut dépassant à des hauteurs et inclinaisons variées ; les pièces dans la poche à pièces, sur deux rangs, un peu plus de la moitié dépassant du bord. Ouvert, un toucher sur le portefeuille (n'importe où) sort tout : billets en éventail en haut, pièces dessous ; un nouveau toucher range tout, le portefeuille restant ouvert. Un toucher à côté (le décor) range ce qui est sorti et le referme, comme pour en sortir ; ce qui est dans la soucoupe y reste (décisions du parent du 10 octobre 2026). Un billet ou une pièce sorti : un toucher l'envoie dans la soucoupe (plateau de bois du parent), ou on l'y fait glisser ; dans la soucoupe, un toucher le rend. Tailles proportionnelles aux vraies. Contenus d'essai dans les réglages, total de la soucoupe affichable. |
+| Portefeuille | Fermé sur le comptoir. Un toucher l'ouvre : les images de la vidéo du parent, à l'envers, pendant qu'il vient au centre du comptoir, puis un fondu vers l'illustration du portefeuille ouvert et vide du parent (meilleure que la vidéo), en deux calques : le portefeuille et le cuir de devant (`outils/8-portefeuille-ouvert.py`). Les pièces qui sortent montent devant le rabat de leur poche. Les billets sont rangés dans la grande poche, le haut dépassant à des hauteurs et inclinaisons variées ; les pièces dans la poche à pièces, sur deux rangs, un peu plus de la moitié dépassant du bord. Ouvert, un toucher sur le portefeuille (n'importe où) sort tout : billets en éventail en haut, pièces dessous ; un nouveau toucher range tout, le portefeuille restant ouvert. Un toucher à côté (le décor) range ce qui est sorti et le referme, comme pour en sortir ; ce qui est dans la soucoupe y reste (décisions du parent du 10 octobre 2026). Un billet ou une pièce sorti : un toucher l'envoie dans la soucoupe (plateau de bois du parent), ou on l'y fait glisser ; dans la soucoupe, un toucher le rend. Tailles proportionnelles aux vraies. Contenus d'essai dans les réglages, total de la soucoupe affichable. |
 | Réglages | Bouton « Réglages » : assombrissement (voile général, bords, capitaine, monnaie), lumière de la lampe sur l'étal et sur les produits (recalculée au relâchement du curseur), halo, phare, pluie, probabilités et délais de l'orage. Gardés sur la tablette ; « Copier les réglages » donne les valeurs à reporter dans l'application. |
 | Pêche du jour | 8 produits sur 12, tirés au hasard (bouton « Autre pêche »), en deux rangées de 4 sur la glace, légèrement tournés, avec leur ombre portée ; une ardoise de prix plantée devant chacun (police Shantell Sans). **Les prix ne sont pas dans les images** : le code écrit sur chaque ardoise le prix que l'exercice donne au produit (en centimes, « 3 € » ou « 2,50 € », ardoise élargie au besoin) ; « Autres prix » en tire d'autres (entiers, puis avec 50 c, puis avec 10 à 90 c). L'étal, les produits et les ardoises sont composés une fois dans un calque, pour chaque temps (produits assombris par mauvais temps). Par mauvais temps, chaque produit reçoit en plus la lumière de la lampe selon sa distance, plus forte du côté tourné vers elle, avec une ombre portée à l'opposé ; les ardoises aussi. |
 | Lampe à huile | Accrochée sous l'angle du toit : éteinte par beau temps (brise légère), allumée par mauvais temps. Elle se balance comme un pendule poussé par les rafales. Sa lumière suit la flamme : l'étal et la cabane prennent, autour d'elle, les couleurs du beau temps teintées de la flamme, avec une décroissance progressive ; la face avant de l'étal, verticale et sous la lampe, en reçoit moins que la glace. La flamme scintille ; les gouttes qui passent près d'elle s'éclairent. |
 
 ## Les images
 
-`sources/` : les illustrations générées par le parent (Nano Banana) : l'étal par beau et par mauvais temps (superposables au pixel près), la lampe allumée et éteinte, les trois images de bateaux, les 12 produits (`sources/produits/`, sur fond vert), les 5 pièces et 4 billets (`sources/monnaie/`), la vidéo du portefeuille qui se referme (`sources/portefeuille.mp4`). `polices/` : Shantell Sans, pour les ardoises. `img/` : les calques fabriqués par `outils/` (Python, OpenCV), à 1,5 fois la taille de la scène de 1280 × 800 :
+`sources/` : les illustrations générées par le parent (Nano Banana) : l'étal par beau et par mauvais temps (superposables au pixel près), la lampe allumée et éteinte, les trois images de bateaux, les 12 produits (`sources/produits/`, sur fond vert), les 5 pièces et 4 billets (`sources/monnaie/`), la vidéo du portefeuille qui se referme (`sources/portefeuille.mp4`), le portefeuille ouvert et vide (`sources/monnaie/portefeuille-vide.jpg`), la soucoupe (`sources/monnaie/soucoupe.jpg`). `polices/` : Shantell Sans, pour les ardoises. `img/` : les calques fabriqués par `outils/` (Python, OpenCV), à 1,5 fois la taille de la scène de 1280 × 800 :
 
 ```bash
 cd art/etal/outils
@@ -32,7 +32,7 @@ python3 4-lampe.py     # la lampe allumée : détourage, crochet et flamme
 python3 5-produits.py  # les 12 produits : fond vert retiré, poissons remis à plat, cadrage
 python3 6-lampe-eteinte.py  # la lampe éteinte, éclaircie pour le plein jour
 python3 7-monnaie.py   # pièces, billets, soucoupe détourés ; portefeuille : 35 images de la vidéo (ouvert → fermé)
-python3 8-portefeuille-ouvert.py  # le portefeuille ouvert de l'illustration : vidé (billets et pièces peints retirés, cuir refait) et cuir de devant
+python3 8-portefeuille-ouvert.py  # le portefeuille ouvert et vide de l'illustration : le portefeuille et le cuir de devant
 ```
 
 - L'illustration fait 2 576 × 1 438 px (16:9) ; la scène la ramène à 800 px de haut et coupe 153 px à droite (la fin de l'étal). La fenêtre de la cabane tombe sur la place de la mascotte (intérieur de x 26 à 224, y 136 à 406).

diff --git a/docs/IDEES.md b/docs/IDEES.md
@@ -35,7 +35,7 @@ Retenus dans leur principe par le parent le 30 septembre ; chacun doit passer pa
 
 **L'étal du pêcheur** (la monnaie ; avancée par le parent le 8 octobre 2026, avant les autres concepts de cette section). Décisions du parent : une boutique de pêcheur avec la pêche du jour ; le capitaine (la mascotte) en marchand, dans la fenêtre de sa cabane ; de vraies pièces et de vrais billets en euros, **dessinés** (pas de photos) ; décor et objets générés par Nano Banana dans le style dessiné du récif ; quelques éléments animés. Le principe : un bouton ouvre le portefeuille de l'enfant ; elle fait glisser les pièces et les billets nécessaires pour acheter le produit demandé ; en montant en difficulté, le portefeuille est restreint pour qu'on ne puisse pas faire le compte juste, et il faut alors calculer la monnaie que le pêcheur rend. D'autres déclinaisons viendront ensuite.
 
-- **Décor** : maquette `art/etal/` (9 octobre 2026), à valider : cabane à gauche (la fenêtre tombe sur la place de la mascotte), étal de glace vu de face, comptoir au premier plan, port et phare ; nuages, vagues, oiseaux et bateaux animés ; un mode « mauvais temps » (pluie, phare tournant, feux des bateaux, lampe à huile qui se balance et éclaire l'étal). Le temps est tiré au hasard, mauvais une fois sur deux (décision du parent du 9 octobre 2026). La pêche du jour (12 produits générés par le parent, 8 à la fois) est posée sur la glace, avec une ardoise de prix devant chacun. Le 10 octobre : orage possible en cours de séance (le pêcheur s'exclame et se met à l'abri) ; portefeuille animé (vidéo du parent), poches à billets et à pièces, soucoupe ; pas de chat ni de mouette (décision du parent : le port, les bateaux et le phare suffisent).
+- **Décor** : maquette `art/etal/` (9 octobre 2026), à valider : cabane à gauche (la fenêtre tombe sur la place de la mascotte), étal de glace vu de face, comptoir au premier plan, port et phare ; nuages, vagues, oiseaux et bateaux animés ; un mode « mauvais temps » (pluie, phare tournant, feux des bateaux, lampe à huile qui se balance et éclaire l'étal). Le temps est tiré au hasard, mauvais une fois sur deux (décision du parent du 9 octobre 2026). La pêche du jour (12 produits générés par le parent, 8 à la fois) est posée sur la glace, avec une ardoise de prix devant chacun. Le 10 octobre : orage possible en cours de séance (le pêcheur s'exclame et se met à l'abri) ; portefeuille animé (vidéo du parent), poches à billets et à pièces, soucoupe ; pas de chat ni de mouette (décision du parent : le port, les bateaux et le phare suffisent). Le 10 octobre : maquette validée, l'exercice devient le lot « L'étal du pêcheur » (`docs/LOTS.md`, fiche 7), qui reprend les propositions ci-dessous.
 - **Proposé, non tranché** : niveaux (payer juste avec des pièces jusqu'à 10 €, puis avec des billets jusqu'à 20 € et 50 € ; portefeuille restreint où le compte juste exige un choix ; compte juste impossible : payer sans pièce de trop, le pêcheur rend la monnaie en comptant ; puis l'enfant calcule ce qu'il doit rendre ; deux produits à additionner) ; règle de validation « aucune pièce de trop » quand le compte juste est impossible ; aide par le saut sur la ligne graduée pour rendre la monnaie ; les centimes (période 2 au plus tard) et l'écriture à virgule (période 3) en niveaux suivants du même exercice.
 - **Points de vigilance** : les billets en euros ont des règles de reproduction (décision BCE/2013/10) : pièces et billets **stylisés et reconnaissables**, sans signature, numéro, sigle ni motif exact ; leur valeur écrite par le code (un générateur d'images écrit mal les chiffres). Les prix et sommes dits à voix haute multiplient les phrases à fabriquer : banque fixe de situations, ou montants affichés plutôt que dits.
 
